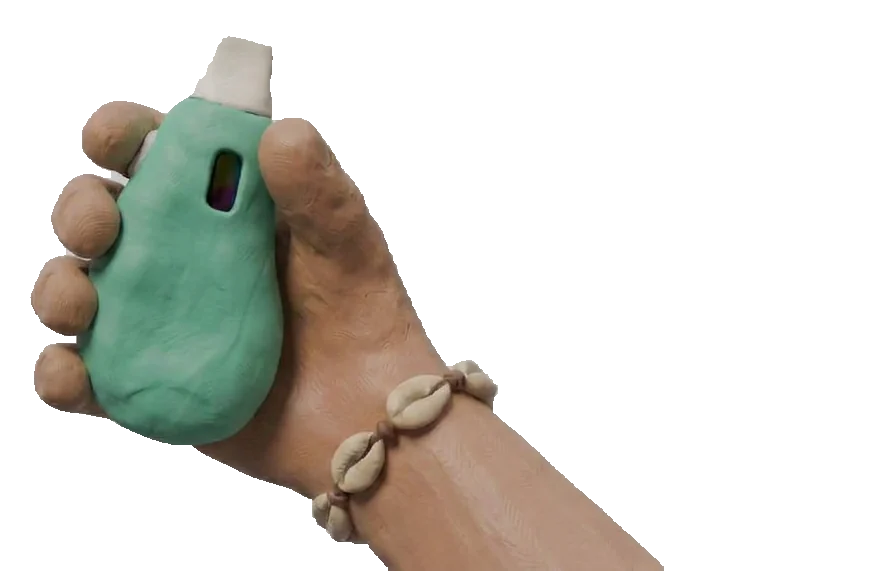
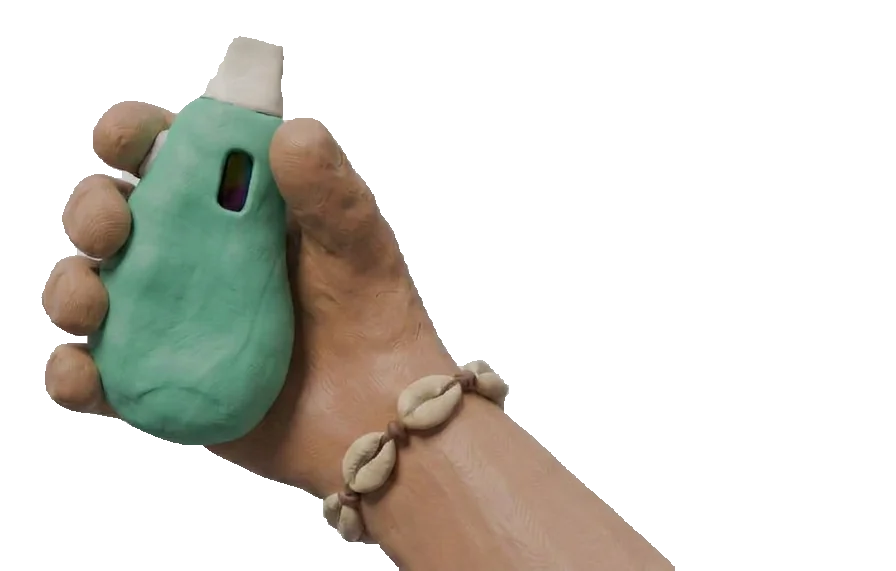
The vape travels to them: new reach illustrations, people stay put
New clay hand frames (half reach, full reach with the pod tipped at their lips, hard squeeze). Grabbing someone steps
out -> reach -> full reach at 12 fps and aims the pod's mouthpiece at their actual mouth (rotate/scale round the screen
corner so the forearm stays attached); each puff swaps to the squeeze. The held person is no longer pulled toward the
vape (the experimental tip sync is off).

diff --git a/js/hands.js b/js/hands.js
@@ -42,15 +42,15 @@ const tgt={x:0,y:0,ok:false},V=X.T?new X.T.Vector3():null,mp={x:0,y:0,ok:false,k
 /* tipSync: the core locks a held person's mouth onto armR.tip (an invisible 3D point). Move that point to wherever the clay pod's
    mouthpiece is on screen, at the tip's usual depth, so their mouth lands on the vape tip. */
 let tip0=null;const TV=X.T?new X.T.Vector3():null,TV2=X.T?new X.T.Vector3():null;
-function tipSync(){const tip=X.armR&&X.armR.tip;if(!tip||!TV)return;if(!tip0)tip0=tip.position.clone();
+/* (unused: the user wants the vape to travel to them, not them pulled to the vape) */function tipSync(){const tip=X.armR&&X.armR.tip;if(!tip||!TV)return;if(!tip0)tip0=tip.position.clone();
   if(!(mp.ok&&mp.k>0)){tip.position.copy(tip0);return}
   const cam=X.cam;cam.updateMatrixWorld();tip.position.copy(tip0);tip.parent.updateMatrixWorld(true);tip.getWorldPosition(TV);
   TV.applyMatrix4(cam.matrixWorldInverse);const zc=Math.min(-.25,TV.z),g=X.game.getBoundingClientRect(),th=Math.tan(cam.fov*Math.PI/360);
   const nx=mp.x/g.width*2-1,ny=1-mp.y/g.height*2,k=mp.k;TV2.set(nx*-zc*th*cam.aspect,ny*-zc*th,zc);
   TV.lerp(TV2,k);cam.localToWorld(TV);tip.parent.worldToLocal(TV);tip.position.copy(TV)}
-X.on('grab',n=>{held=n;phase='reach';queue=['out','hit','hit','tilt']});
+X.on('grab',n=>{held=n;phase='reach';queue=['out','reach1','reach1','reach2']});// stop-motion reach: the vape travels out to their face
 X.on('vape',()=>{if(phase==='hold')pump=1});
-X.on('release',(n,kind)=>{if(kind==='passive')return;phase='flick';queue=['hit','out'];recoil=1;held=null});
+X.on('release',(n,kind)=>{if(kind==='passive')return;phase='flick';queue=['reach1','out'];recoil=1;held=null});
 
 function aimAt(){tgt.ok=false;const n=X.held||held;if(!n||!V||!X.mouth)return;try{X.mouth(n,V);V.project(X.cam);if(V.z>1)return;
   const g=X.game.getBoundingClientRect();tgt.x=(V.x+1)/2*g.width;tgt.y=(1-V.y)/2*g.height;tgt.ok=true}catch(e){}}
@@ -61,14 +61,13 @@ X.on('prerender',gdt=>{const now=performance.now(),dt=Math.min(.1,(now-lastT)/10
   const play=X.mode==='play'||X.mode==='paused';
   up=Math.max(0,Math.min(1,up+(play?dt/.35:-dt/.2)));
   const v=Math.hypot(X.px-lastX,X.pz-lastZ)/Math.max(1e-3,gdt||dt);lastX=X.px;lastZ=X.pz;if(v<20){sp+=(v-sp)*Math.min(1,dt*8);bobPh+=dt*Math.min(9,sp*1.6)}
-  if(phase==='hold'&&!X.held){phase='flick';queue=['hit','out'];recoil=1;held=null}
-  tipSync();
+  if(phase==='hold'&&!X.held){phase='flick';queue=['reach1','out'];recoil=1;held=null}
   acc+=dt;if(acc<STEP)return;acc=0;// everything below snaps at ~12 fps (stop-motion)
   const rm=RM.matches;boilT+=STEP;if(boilT>=.125){boilT=0;boilK=(boilK+1+(Math.random()*2|0))%6}
   // ---- right hand frame
   let f;
   if(queue.length){f=queue.shift();if(!queue.length){if(phase==='reach')phase='hold';else if(phase==='flick')phase='idle'}}
-  else if(phase==='hold'){f=pump>0?'hit':'tilt';if(pump>0)pump--}
+  else if(phase==='hold'){f=pump>0?'squeeze':'reach2';if(pump>0)pump--}
   else f=sp>4.5?'rest':'out';
   show('R',FR[f]||FR.out||FR.rest);
   // ---- right hand placement
@@ -79,12 +78,12 @@ X.on('prerender',gdt=>{const now=performance.now(),dt=Math.min(.1,(now-lastT)/10
   // resting pose: park the pod's mouthpiece at ~68% across, a bit below middle, whatever the screen shape
   {const fm=M.R.f[f]&&M.R.f[f].mp;if(fm&&f==='out'){const mx=W-Wc+fm[0]*Wc,my=H-Hc+fm[1]*Hc,k=1-aimK;
     tx+=Math.max(-W*.1,Math.min(Wc*.5,(W*.68-mx)))*k;ty+=Math.max(-H*.1,Math.min(H*.2,(H*.6-my)))*k}}
-  if(aimK>0){aimAt();const fm=M.R.f[f]&&M.R.f[f].mp;const OFF={x:W*.585,y:H*.5};/* the offering point: the game then pulls their mouth onto the pod tip */
-    if(fm){const tgt=OFF;// lock the pod's mouthpiece onto their mouth: rotate + scale round the bottom-right corner (the forearm stays
+  if(aimK>0){aimAt();const fm=M.R.f[f]&&M.R.f[f].mp;/* aim at their actual mouth: they stay put, the vape comes to them */
+    if(fm&&tgt.ok){// lock the pod's mouthpiece onto their mouth: rotate + scale round the bottom-right corner (the forearm stays
       // attached to the screen edge), then a small nudge for what's left
       const px=W,py=H,mx=W-Wc+fm[0]*Wc,my=H-Hc+fm[1]*Hc,dmx=mx-px,dmy=my-py,dtx=tgt.x-px,dty=tgt.y-py;
       let th=Math.atan2(dty,dtx)-Math.atan2(dmy,dmx);th=Math.atan2(Math.sin(th),Math.cos(th));th=Math.max(-.6,Math.min(.6,th))*aimK;
-      sc=1+(Math.max(.78,Math.min(1.3,Math.hypot(dtx,dty)/Math.max(1,Math.hypot(dmx,dmy))))-1)*aimK;rot+=th*180/Math.PI;
+      sc=1+(Math.max(.78,Math.min(1.75,Math.hypot(dtx,dty)/Math.max(1,Math.hypot(dmx,dmy))))-1)*aimK;rot+=th*180/Math.PI;
       const c=Math.cos(th),s=Math.sin(th),rx=px+sc*(dmx*c-dmy*s),ry=py+sc*(dmx*s+dmy*c);
       tx+=Math.max(-W*.04,Math.min(W*.08,(tgt.x-rx)*aimK));ty+=Math.max(-H*.04,Math.min(H*.08,(tgt.y-ry)*aimK))}}
   if(pump===1&&!rm){sc*=.97;tx-=W*.004;ty-=H*.006}// each puff: a little shove toward their face
@@ -110,5 +109,5 @@ X.on('prerender',gdt=>{const now=performance.now(),dt=Math.min(.1,(now-lastT)/10
       const gy=gy0+lift,a0=Math.atan2(gy-H-lift,gx),a1=Math.atan2(tgt.y+H*.04-H-lift,tgt.x-W*.05);
       lr+=Math.max(-24,Math.min(16,(a1-a0)*180/Math.PI))*reach}if(!rm){const j=boilK*1.91;lx+=Math.sin(j*1.3)*W*.001;ly+=Math.cos(j*2.3)*H*.003;lr+=Math.sin(j*2.9)*.4}
     L.style.transform=`translate(${lx.toFixed(1)}px,${ly.toFixed(1)}px) rotate(${lr.toFixed(2)}deg)`}});
-X.hands={wrap,get phase(){return phase}};
+X.hands={wrap,get phase(){return phase},get mp(){return mp}};
 })();
